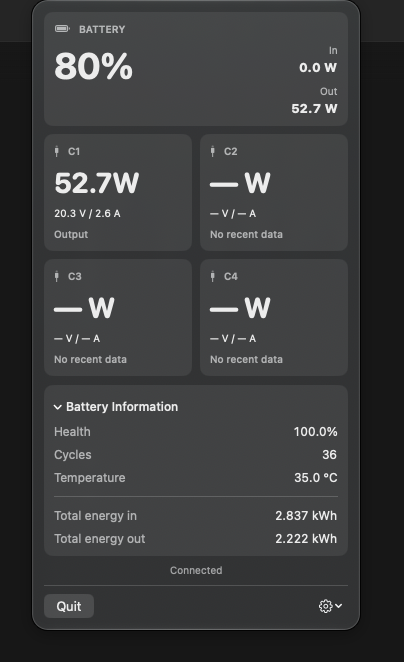
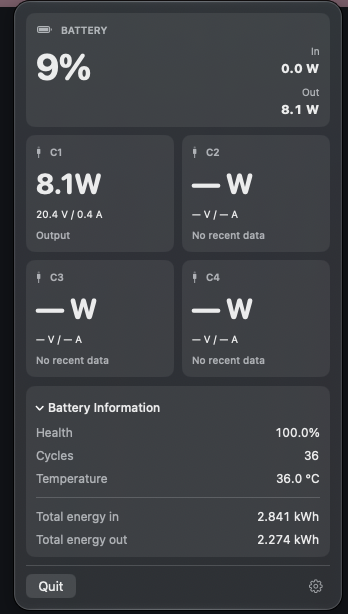
Refresh README dashboard screenshot

diff --git a/assets/readme/README.md b/assets/readme/README.md
@@ -1,10 +1,10 @@
 # readme images
 
 - `somnoire-banner.png`: the user-supplied `NOU NOU!!.png`, copied unchanged. this is an illustrated promotional banner, not a live application capture. it includes the app name and “a little power, a little reverie.” tagline, so the landing page does not repeat those headings.
-- `dashboard.png`: the user's real battery-dashboard capture supplied in this conversation, copied unchanged. it predates the connected-label and gear-dropdown cleanup.
+- `dashboard.png`: the user's latest real battery-dashboard capture, copied unchanged. it shows the current footer with Quit and a direct settings gear.
 - `settings.png`, `settings-alerts.png`, `settings-charging.png`, `settings-screen.png`, and `settings-about.png`: the user’s newly supplied real captures of all five settings sections, copied unchanged. the About capture shows build 24’s version; it has not been retouched to claim a different version.
 - the NouNou showcase reuses the app's actual color resources in `Resources/`, rather than introducing separate illustrations or upscaling the menu bar images.
 
-the dashboard capture predates its footer cleanup. the new settings captures show the current settings layout. do not redraw controls, alter the captured version text, or replace readings to make captures look newer.
+the dashboard and settings captures show the current layouts. do not redraw controls, alter the captured version text, or replace readings to make captures look newer.
 
 third-party characters and imagery remain the property of their respective rights holders. see the repository's license and third-party notices for the original code and dependency licensing.

diff --git a/README.md b/README.md
@@ -12,7 +12,7 @@ Somnoire is a lightweight, native macOS menu bar app for keeping an eye on suppo
   <img src="assets/readme/dashboard.png" width="328" alt="real Somnoire dashboard showing battery percentage, input and output power, four USB-C port cards, and expanded battery information">
 </p>
 
-*an actual dashboard capture, separate from the illustrated banner above. this development-build screenshot predates the removal of the connected label and gear dropdown.*
+*the real dashboard, with live readings and expanded battery information.*
 
 <details>
 <summary>a look inside settings</summary>
